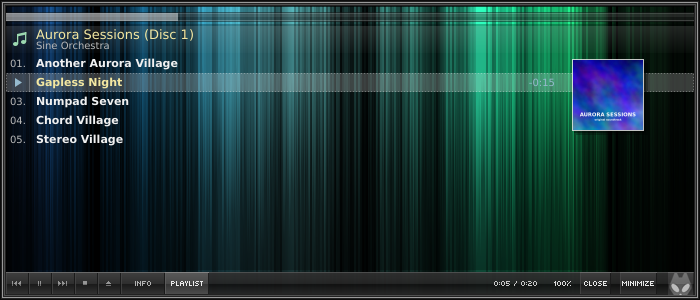
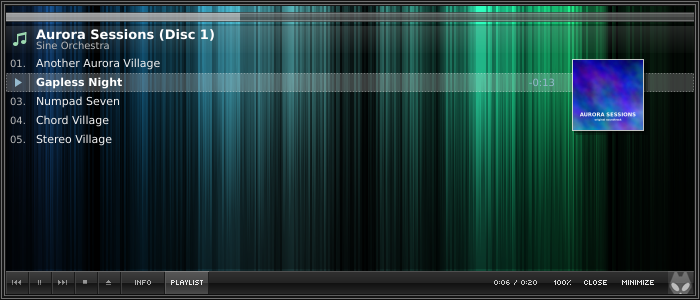
Skin: white bold album and playing title, no text shadow
Claude-Session: https://claude.ai/code/session_015BRbPGubUmtxsC6CGuuWu9

Changed region(s): [[0.0, 0.0, 1.0, 1.0]]

diff --git a/src/skin/SkinView.cpp b/src/skin/SkinView.cpp
@@ -29,7 +29,7 @@ constexpr int kSegment = 2;     // spectrum: segment line (1) + gap (1)
 constexpr int kSpectrumH = 42;
 constexpr int kResizeBorder = 5;
 
-const QColor kAlbumColor(0xf3, 0xe7, 0xa1);
+const QColor kAlbumColor(0xff, 0xff, 0xff);
 const QColor kTextColor(0xf4, 0xf4, 0xf4);
 const QColor kLabelColor(0xc8, 0xc8, 0xc8);
 const QColor kLabelHover(0xff, 0xff, 0xff);
@@ -40,15 +40,12 @@ double smoothstep(double a, double b, double x)
     return t * t * (3 - 2 * t);
 }
 
-// Text with a soft shadow, elided to 'width'.
-void shadowText(QPainter &p, int x, int y, int width, const QString &text, const QFont &font, const QColor &color)
+// Text elided to 'width'.
+void elidedText(QPainter &p, int x, int y, int width, const QString &text, const QFont &font, const QColor &color)
 {
     p.setFont(font);
-    const QString elided = QFontMetrics(font).elidedText(text, Qt::ElideRight, width);
-    p.setPen(QColor(0, 0, 0, 150));
-    p.drawText(x + 1, y + 1, elided);
     p.setPen(color);
-    p.drawText(x, y, elided);
+    p.drawText(x, y, QFontMetrics(font).elidedText(text, Qt::ElideRight, width));
 }
 
 // The skin was designed with Trebuchet MS; use it when it is there.
@@ -415,7 +412,7 @@ void SkinView::paintProgress(QPainter &p)
         const QFont f = pixelFont(10);
         const int w = QFontMetrics(f).horizontalAdvance(m_message) + 4;
         const int x = std::max(m_content.left() + 12, m_content.right() - 12 - w);
-        shadowText(p, x, kPanelY + 14, m_content.right() - 12 - x, m_message, f, QColor(255, 255, 255, 220));
+        elidedText(p, x, kPanelY + 14, m_content.right() - 12 - x, m_message, f, QColor(255, 255, 255, 220));
     }
 }
 
@@ -457,20 +454,20 @@ void SkinView::paintInfo(QPainter &p)
     p.setPen(QColor(235, 235, 235, 220));
     p.drawRect(c.adjusted(-1, -1, 0, 0));
 
-    // Text: album 12pt, artist and title 10pt, details 8pt (as in the skin).
+    // Text: album 12pt bold, artist and title 10pt, details 8pt (as in the skin).
     p.setRenderHint(QPainter::TextAntialiasing);
     const int x = m_infoRect.left();
     const int w = m_infoRect.width();
     const int top = kPanelY;
-    shadowText(p, x, top + 39, w, m_info.album, pixelFont(16), kAlbumColor);
-    shadowText(p, x, top + 58, w, m_info.artist, pixelFont(13), kTextColor);
-    shadowText(p, x, top + 78, w, m_info.title, pixelFont(13, false, true), kTextColor);
+    elidedText(p, x, top + 39, w, m_info.album, pixelFont(16, true), kAlbumColor);
+    elidedText(p, x, top + 58, w, m_info.artist, pixelFont(13), kTextColor);
+    elidedText(p, x, top + 78, w, m_info.title, pixelFont(13, false, true), kTextColor);
     int y = top + 117;
     for (const QString &line : m_info.details) {
         if (y > m_spectrumRect.top() - 2)
             break;
         if (!line.isEmpty())
-            shadowText(p, x, y, w, line, pixelFont(11), kTextColor);
+            elidedText(p, x, y, w, line, pixelFont(11), kTextColor);
         y += line.isEmpty() ? 6 : 17;
     }
 }

diff --git a/src/skin/SkinPlaylistDelegate.cpp b/src/skin/SkinPlaylistDelegate.cpp
@@ -16,7 +16,7 @@ constexpr int kHeaderH = 30;
 constexpr int kCover = 70;
 constexpr int kCoverRows = 4; // rows next to the cover leave room for it
 
-const QColor kAlbum(0xf3, 0xe7, 0xa1);
+const QColor kAlbum(0xff, 0xff, 0xff);
 const QColor kText(240, 240, 240);
 const QColor kDim(185, 185, 185);
 const QColor kTime(150, 185, 205);
@@ -125,7 +125,7 @@ void SkinPlaylistDelegate::paint(QPainter *p, const QStyleOptionViewItem &option
                 artist = up.dirName();
         }
         drawNote(*p, QPointF(h.left() + 6, h.top() + 8), QColor(0x9c, 0xd8, 0xb0));
-        p->setFont(font(13));
+        p->setFont(font(13, true));
         p->setPen(kAlbum);
         p->drawText(QRect(h.left() + 30, h.top() + 2, h.width() - 40, 16), Qt::AlignLeft | Qt::AlignVCenter,
                     p->fontMetrics().elidedText(album, Qt::ElideRight, h.width() - 40));
@@ -179,7 +179,8 @@ void SkinPlaylistDelegate::paint(QPainter *p, const QStyleOptionViewItem &option
     QString title = url ? m_model->displayText(row) : titleOf(QFileInfo(path).completeBaseName());
     if (queuePos > 0)
         title = QStringLiteral("[%1] ").arg(queuePos) + title;
-    p->setFont(font(11, true));
+    // The playing item: white and bold.
+    p->setFont(font(11, playing));
     p->setPen(playing ? kAlbum : queuePos > 0 ? QColor(0x9c, 0xff, 0x9c) : kText);
     const QRect tr(r.left() + 30, r.top(), right - r.left() - 30, r.height());
     p->drawText(tr, Qt::AlignLeft | Qt::AlignVCenter, p->fontMetrics().elidedText(title, Qt::ElideRight, tr.width()));

diff --git a/src/skin/SkinView.h b/src/skin/SkinView.h
@@ -19,7 +19,7 @@ public:
 
     struct TrackInfo
     {
-        QString album;    // first line (yellow)
+        QString album;    // first line (white, bold)
         QString artist;
         QString title;    // italic
         QStringList details;
